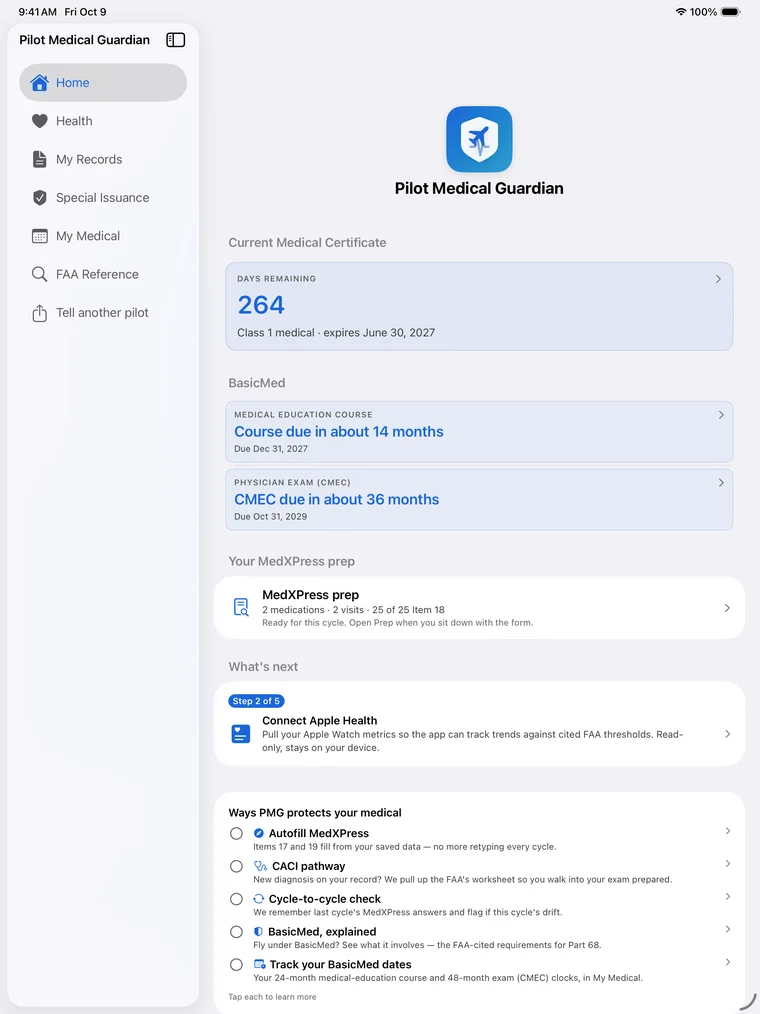
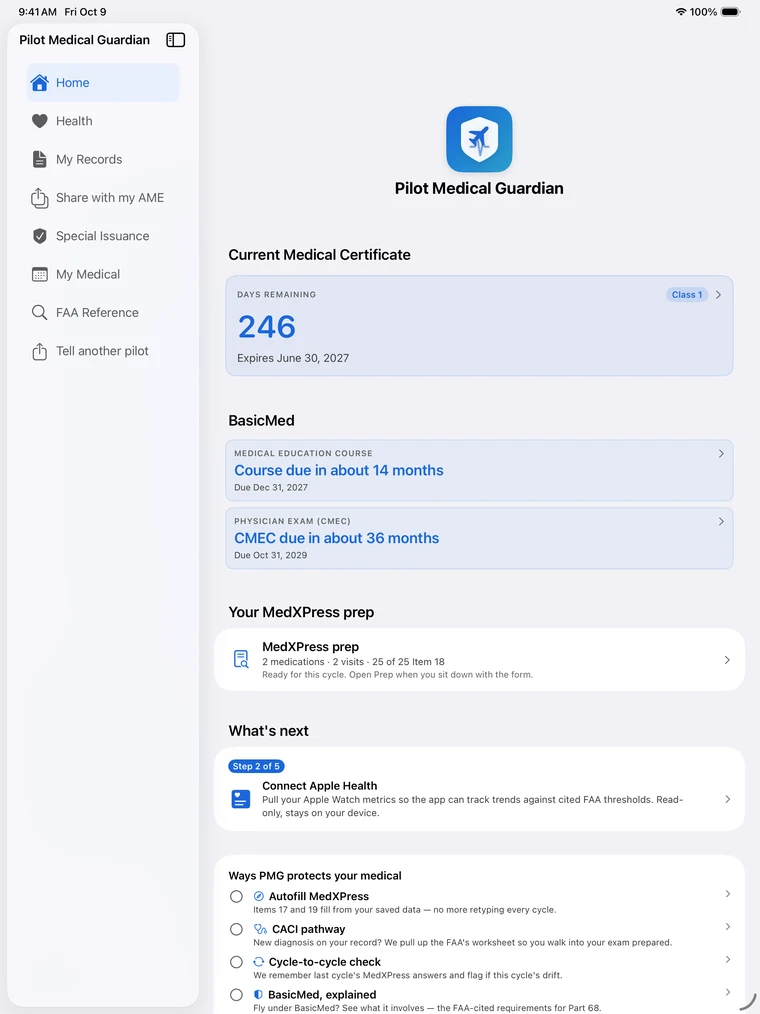
Website: 2.3.4 / 1.2.4 sync (Ryan 10/29: iOS approved, do Mac too)
- Hero (Mac, iPad, iPhone) and home.webp re-made from the 10/27 captures (2.3.4 look), same sizes.
- What's New: full FAA AME directory with addresses; Share with my AME titled + name fill-in +
  Item 18; Special Issuance due dates.
- FAQ: 'Where does the AME directory come from?' replaces the stale HIMS-subset answer.

diff --git a/index.html b/index.html
@@ -355,9 +355,9 @@
       <div class="hero2-media">
         <div class="device-field">
           <div class="device-row">
-          <img class="dev-mac" src="/screenshots/hero-mac.webp?v=20261009" width="1400" height="1051" fetchpriority="high" decoding="async" alt="Pilot Medical Guardian on a Mac, showing the home screen with the days remaining on a Class 1 medical certificate">
-          <img class="dev-ipad" src="/screenshots/hero-ipad.webp?v=20261009" width="760" height="1014" decoding="async" alt="Pilot Medical Guardian on an iPad, showing the home screen">
-          <img class="dev-iphone" src="/screenshots/hero-iphone.webp?v=20261009" width="620" height="1347" decoding="async" alt="Pilot Medical Guardian on an iPhone, showing the time until the medical certificate expires with BasicMed course and exam countdowns">
+          <img class="dev-mac" src="/screenshots/hero-mac.webp?v=20261029" width="1400" height="1051" fetchpriority="high" decoding="async" alt="Pilot Medical Guardian on a Mac, showing the home screen with the days remaining on a Class 1 medical certificate">
+          <img class="dev-ipad" src="/screenshots/hero-ipad.webp?v=20261029" width="760" height="1014" decoding="async" alt="Pilot Medical Guardian on an iPad, showing the home screen">
+          <img class="dev-iphone" src="/screenshots/hero-iphone.webp?v=20261029" width="620" height="1347" decoding="async" alt="Pilot Medical Guardian on an iPhone, showing the time until the medical certificate expires with BasicMed course and exam countdowns">
           </div>
           <p class="device-note">Also on iPad</p>
         </div>
@@ -578,7 +578,7 @@
         <h2 style="text-align:left;">A look inside the app</h2>
       </div>
       <div class="shots">
-        <figure><img src="/screenshots/home.webp?v=20261009" width="1206" height="2620" loading="lazy" decoding="async" alt="Home screen showing the time until the medical certificate expires, with BasicMed course and exam countdowns"><figcaption>Know exactly when your medical expires</figcaption></figure>
+        <figure><img src="/screenshots/home.webp?v=20261029" width="1206" height="2620" loading="lazy" decoding="async" alt="Home screen showing the time until the medical certificate expires, with BasicMed course and exam countdowns"><figcaption>Know exactly when your medical expires</figcaption></figure>
         <figure><img src="/screenshots/medxpress.webp?v=20260828" width="1206" height="2620" loading="lazy" decoding="async" alt="The in-app records screen with medications and doctor visits organized to match the FAA form"><figcaption>Your records, organized and ready to autofill</figcaption></figure>
         <figure><img src="/screenshots/si.webp?v=20260828" width="1206" height="2620" loading="lazy" decoding="async" alt="Special Issuance checklist with requirements and reminders"><figcaption>Stay on top of Special Issuance</figcaption></figure>
         <figure><img src="/screenshots/health.webp?v=20260828" width="1206" height="2620" loading="lazy" decoding="async" alt="A health metric charted against the FAA's cited threshold"><figcaption>Your numbers vs. the FAA's own thresholds</figcaption></figure>

diff --git a/whats-new.html b/whats-new.html
@@ -92,6 +92,9 @@
       <h3>Now in the app</h3>
       <p class="pro-note">Most of this is free: your renewal countdown and reminders, unlimited record-keeping, the medication reference, Health, and the AME directory, plus one free MedXPress autofill to try it. The items marked <span class="pro-tag">Guardian Pro</span> are part of the optional subscription.</p>
       <ul>
+        <li><strong>Every FAA AME, with addresses:</strong> the AME directory now lists every AME on the FAA's Designee Locator, with each office's street address and the HIMS-trained ones marked. Tap an address to open it in Maps. I refresh it about once a month. Free.</li>
+        <li><strong>Share with my AME, sharper:</strong> <span class="pro-tag">Guardian Pro</span> the PDF is titled for your AME and fills in their name from the AME you marked as yours. Your Item 18 Yes answers and explanations go in unless you switch them off.</li>
+        <li><strong>Special Issuance due dates:</strong> <span class="pro-tag">Guardian Pro</span> give each requirement a due date and see them on a timeline, overdue first.</li>
         <li><strong>FAA disposition tables:</strong> answer Yes on an Item 18 question, or search a condition like GERD, and the app lists the FAA's own disposition tables for it, each with its date, and opens the FAA's PDF right in the app. Free.</li>
         <li><strong>Search by type:</strong> search "statin", "muscle relaxer" or "BP med" and see every medication of that kind, grouped under the FAA status line each one carries. Free.</li>
         <li><strong>Did you mean:</strong> misspell a medication when you add it and the app suggests the name you probably meant. Nothing is linked until you tap it. Free.</li>

diff --git a/faq.html b/faq.html
@@ -427,8 +427,8 @@
     </details>
 
     <details class="qa" id="faq-ame-directory">
-      <summary>Why does the AME directory only show some examiners?</summary>
-      <p>Right now it's limited to a verified subset of HIMS-trained AMEs while I wait on a fuller FAA designee list I've formally requested. The app tells you this directly and points you to the FAA's official locator in the meantime.</p>
+      <summary>Where does the AME directory come from?</summary>
+      <p>From the FAA's own Designee Locator. The app lists every active AME the FAA shows there, with office address and phone, and marks the HIMS-trained ones. I refresh it about once a month. Offices change, so call the office before you book.</p>
     </details>
 
     <details class="qa">
